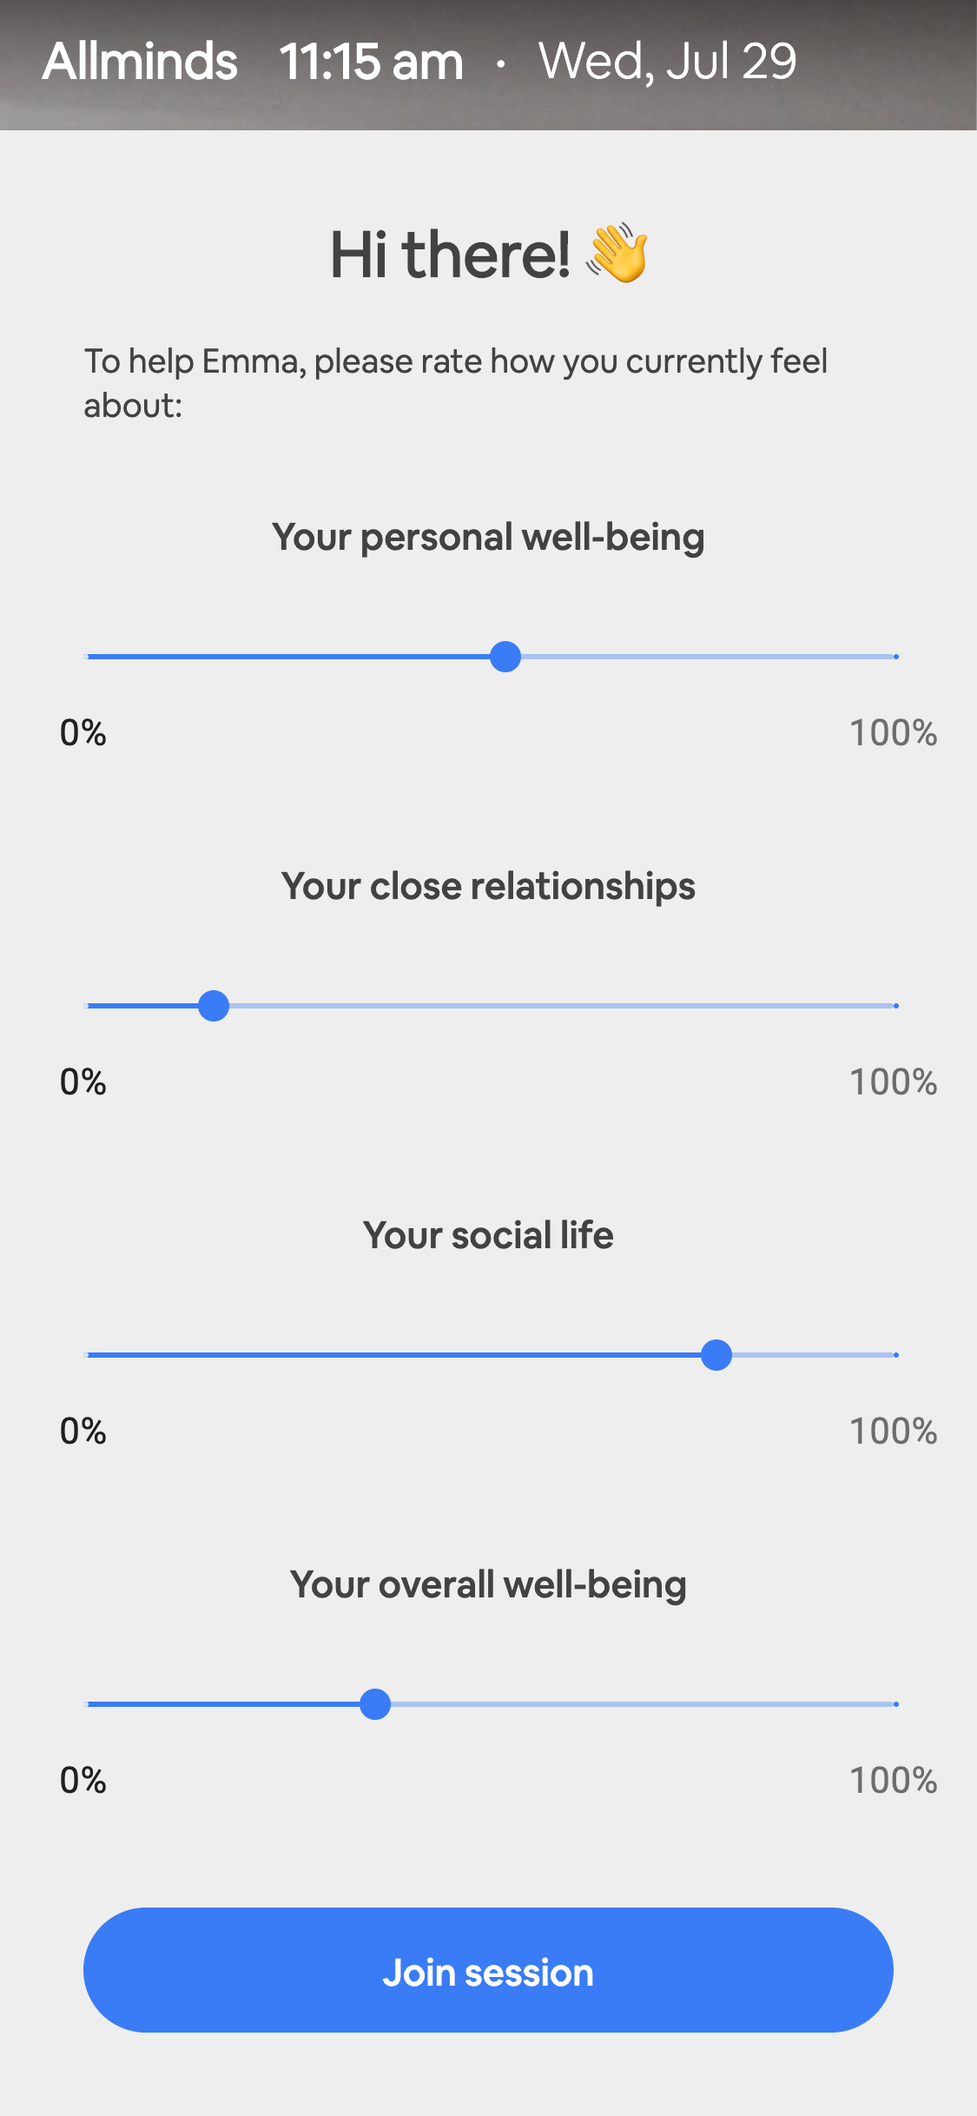
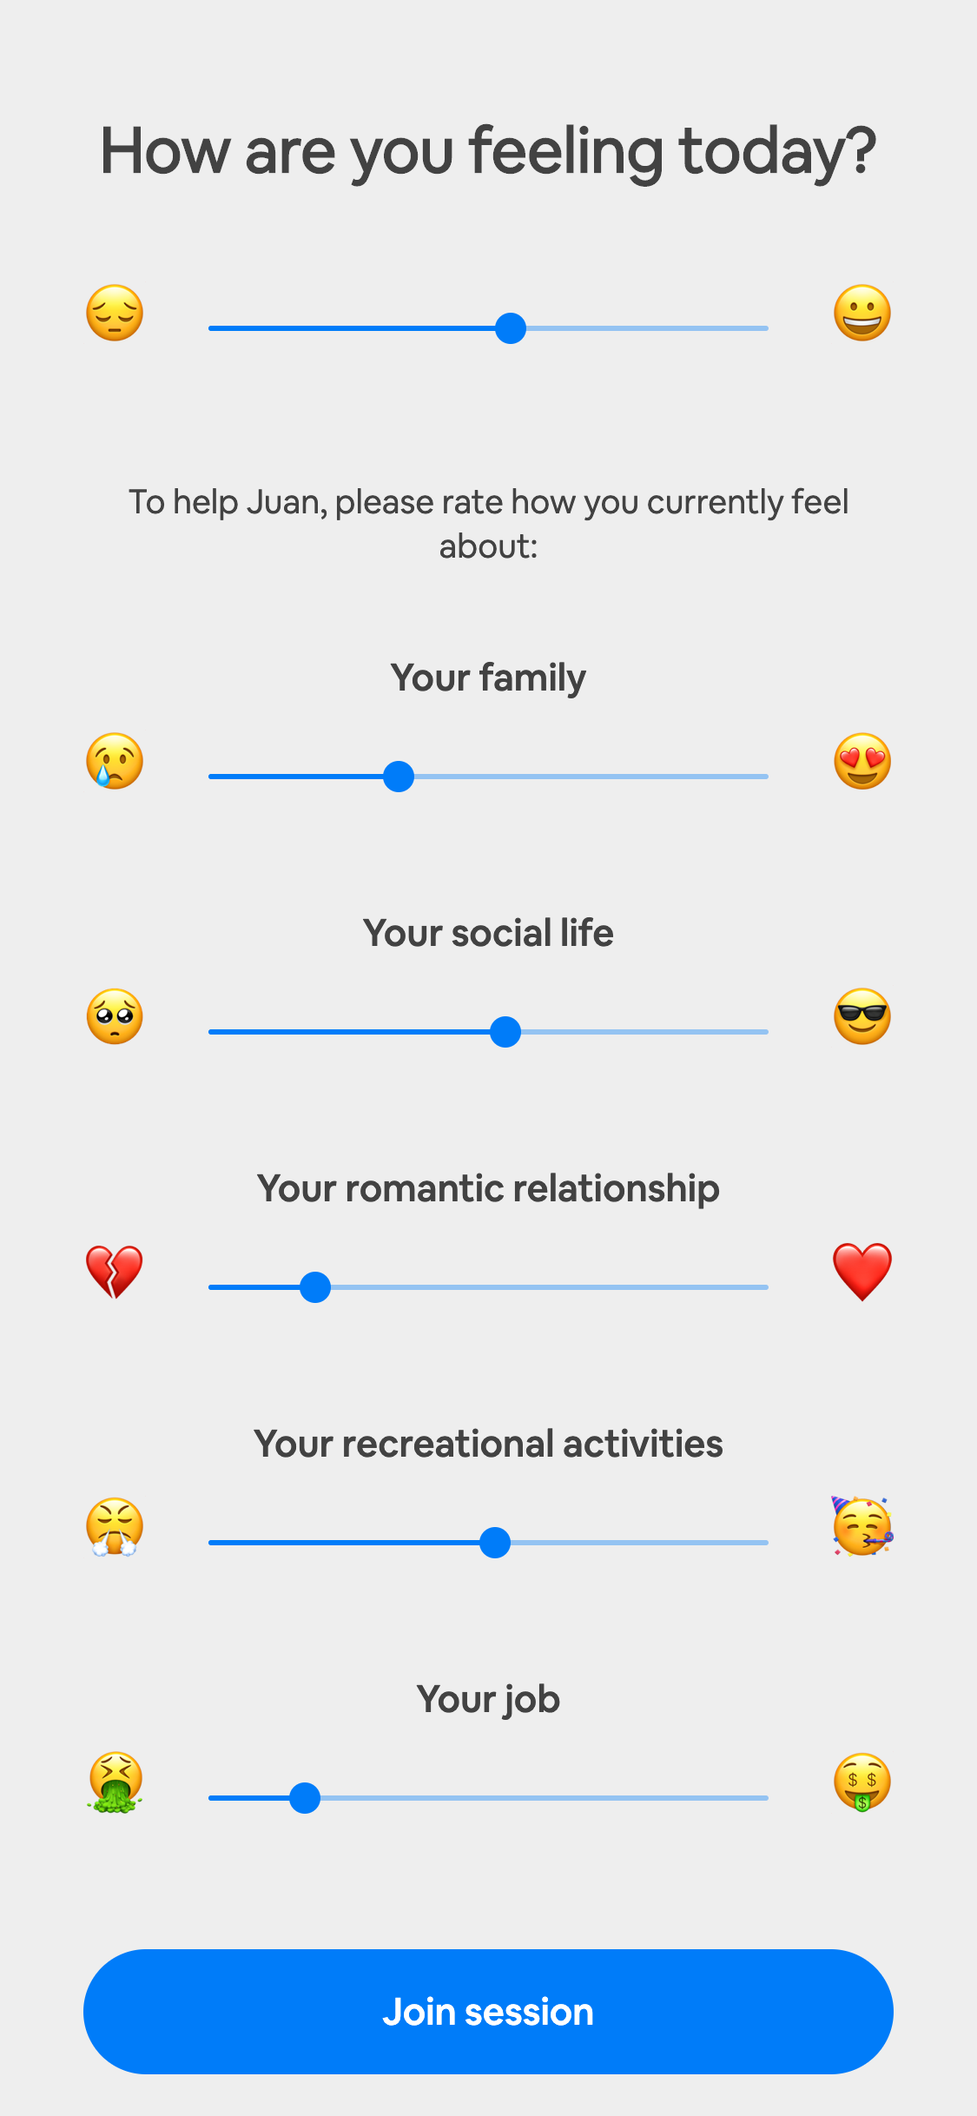
Removed all mentions of old surveys

diff --git a/faq.html b/faq.html
@@ -10,11 +10,11 @@
   <meta property="og:url"                content="https://www.getallminds.com/" />
   <meta property="og:type"               content="website" />
   <meta property="og:title"              content="Allminds | The Telehealth Option tailor-made for Therapists" />
-  <meta property="og:description"        content="Simple, HIPAA-compliant video with screen sharing, couples therapy and more." />
+  <meta property="og:description"        content="Upgrade your telehealth sessions with customizable check-in forms, virtual playrooms and more." />
   <meta property="og:image"              content="https://www.getallminds.com/assets/img/allminds_ui/social_preview.png" />
   <meta name="twitter:card" content="summary_large_image">
   <meta name="twitter:title" content="Allminds | The Telehealth Option tailor-made for Therapists">
-  <meta name="twitter:description" content="Simple, HIPAA-compliant video with screen sharing, couples therapy and more.">
+  <meta name="twitter:description" content="Upgrade your telehealth sessions with customizable check-in forms, virtual playrooms and more.">
   <meta name="twitter:image" content="https://www.getallminds.com/assets/img/allminds_ui/social_preview.png">
 
   <!-- Favicon -->
@@ -206,7 +206,7 @@
                 <div id="basicsCollapseOne" class="collapse" aria-labelledby="basicsHeadingOne" data-parent="#basicsAccordion">
                   <div class="card-body px-0">
                     <p>Allminds is a telehealth platform specifically designed for therapists.</p>
-                    <p>Key features include HIPAA compliant-video through browser (no download required), integrated client surveys to track well-being and session ratings, and a dashboard to keep actionable data at your fingertips.</p>
+                    <p>Key features include HIPAA compliant-video (no download required), screensharing, group calls, virtual playrooms for younger clients, and customizable check-in/check-out forms.</p>
                   </div>
                 </div>
               </div>
@@ -412,7 +412,7 @@
                   <div class="card-body px-0">
                     <p>Allminds works on the latest versions of Google Chrome, Safari, Mozilla Firefox and Edge on desktops/laptops.</p>
                     <p>For <strong>Android</strong>, it can be run using Google Chrome and Mozilla Firefox.</p>
-                    <p><strong>iOS devices</strong> can use Safari, Google Chrome and Mozilla Firefox.</p>
+                    <p>On <strong>iOS devices</strong> you should use Safari exclusively.</p>
                     <p>Note: You must ensure you and your clients are using the most up-to-date browser version to have the best experience. Please do not use Allminds on older or unsupported browser versions (like Internet Explorer) and be aware that incompatibilities can cause technical and video issues.</p>
                   </div>
                 </div>
@@ -431,7 +431,7 @@
               <div class="card shadow-none mb-3">
                 <div class="card-header card-collapse" id="surveyHeadingOne">
                   <a class="btn btn-link btn-block d-flex justify-content-between card-btn collapsed bg-white px-0" href="javascript:;" role="button" data-toggle="collapse" data-target="#surveyCollapseOne" aria-expanded="false" aria-controls="surveyCollapseOne">
-                    How do client surveys work?
+                    How do the check-in and check-out forms work?
 
                     <span class="card-btn-toggle">
                       <span class="card-btn-toggle-default">&plus;</span>
@@ -441,10 +441,11 @@
                 </div>
                 <div id="surveyCollapseOne" class="collapse" aria-labelledby="surveyHeadingOne" data-parent="#featuresAccordion">
                   <div class="card-body px-0">
-                    <p>To help you take  evidence-based decisions, we’ve designed an intuitive experience for clients to complete two ultra-brief surveys during each appointment.</p>
-                    <p>Immediately upon clicking on the video link, clients are asked to visually rate their personal well-being, their close relationships, their social life and their overall well-being using a digital slider. Once they submit their answers, you will immediately be shown their ratings and you will be able to let your client into the video call. </p>
-                    <p>After each session, clients will be asked to rate how they feel about their relationship with you,  the topics of discussion, the approach you used, and their overall liking of the session.</p>
-                    <p>We compute your clients’ scores in the background, and use that to create beautiful charts and tables that you can access through the dashboard to track how your clients are doing. </p>
+                    <p>For each client, you can customize a check-in form to track how they're feeling across different functional domains:</p>
+                    <p>Family functioning, Living situation, Social functioning, Relationship functioning, Recreational, Job functioning, Legal, Medical/Physical, Sexual development, Sleep, School and Optimism.</p>
+                    <p>Your clients will be shown the check-in form before joining the call, and you will see their scores right before starting the session. </p>
+                    <p>After each session, your clients are asked to rate if they found the session helpful, if they talked about what they wanted, and if they believe your practice is the right fit for them.</p>
+                    <p>You can keep track of your client's functional progress and session feedback through your dashboard at anytime. </p>
                   </div>
                 </div>
               </div>
@@ -453,7 +454,7 @@
               <div class="card shadow-none mb-3">
                 <div class="card-header card-collapse" id="surveyLengthHeadingOne">
                   <a class="btn btn-link btn-block d-flex justify-content-between card-btn collapsed bg-white px-0" href="javascript:;" role="button" data-toggle="collapse" data-target="#surveyLengthCollapseOne" aria-expanded="false" aria-controls="surveyLengthCollapseOne">
-                    How long does it take clients to complete the surveys?
+                    How long does it take clients to complete the check-in and check-out forms?
 
                     <span class="card-btn-toggle">
                       <span class="card-btn-toggle-default">&plus;</span>
@@ -463,7 +464,7 @@
                 </div>
                 <div id="surveyLengthCollapseOne" class="collapse" aria-labelledby="surveyLengthHeadingOne" data-parent="#featuresAccordion">
                   <div class="card-body px-0">
-                    <p>Each survey is designed to be completed in less than five seconds and be as effortless as possible.</p>
+                    <p>Each form is designed to be completed in less than five seconds and be as effortless as possible.</p>
                   </div>
                 </div>
               </div>
@@ -483,7 +484,7 @@
                 </div>
                 <div id="privacyCollapseOne" class="collapse" aria-labelledby="privacyHeadingOne" data-parent="#featuresAccordion">
                   <div class="card-body px-0">
-                    <p>We currently support group sessions with up to three participants, including yourself. This means you can see up to two other people at the same time. In the future, we will look to expand the number of participants allowed in group sessions even further.</p>
+                    <p>We currently support group sessions with up to four participants, including yourself. This means you can see up to three other people at the same time. In the future, we will look to expand the number of participants allowed in group sessions even further.</p>
                   </div>
                 </div>
               </div>

diff --git a/index.html b/index.html
@@ -10,11 +10,11 @@
   <meta property="og:url"                content="https://www.getallminds.com/" />
   <meta property="og:type"               content="website" />
   <meta property="og:title"              content="Allminds | The Telehealth Option tailor-made for Therapists" />
-  <meta property="og:description"        content="Simple, HIPAA-compliant video with screen sharing, couples therapy and more." />
+  <meta property="og:description"        content="Upgrade your telehealth sessions with customizable check-in forms, virtual playrooms and more." />
   <meta property="og:image"              content="https://www.getallminds.com/assets/img/allminds_ui/social_preview.png" />
   <meta name="twitter:card" content="summary_large_image">
   <meta name="twitter:title" content="Allminds | The Telehealth Option tailor-made for Therapists">
-  <meta name="twitter:description" content="Simple, HIPAA-compliant video with screen sharing, couples therapy and more.">
+  <meta name="twitter:description" content="Upgrade your telehealth sessions with customizable check-in forms, virtual playrooms and more.">
   <meta name="twitter:image" content="https://www.getallminds.com/assets/img/allminds_ui/social_preview.png">
 
   <!-- Favicon -->
@@ -181,7 +181,7 @@
             <div class="col-12 col-lg-5 col-xl-6">
               <div class="mb-5 text-center text-md-left">
                 <h1 class="display-4">The Telehealth option tailor-made for therapists</h1>
-                <p class="lead">Simple, HIPAA-compliant video with screen sharing, couples therapy and more.</p>
+                <p class="lead">Upgrade your telehealth sessions with customizable check-in forms, virtual playrooms and more.</p>
               </div>
 
               <!-- Begin Mailchimp Signup Form -->
@@ -236,7 +236,8 @@
             <!-- Device Mockup -->
             <div class="device device-horizontal-ipad mr-4 mb-4" style="width: 23rem;" data-aos="fade-up" data-aos-delay="150" data-aos-offset="-300">
               <img class="device-horizontal-ipad-frame" src="./assets/svg/components/ipad-horizontal.svg" alt="Image Description">
-              <img class="device-horizontal-ipad-screen" src="./assets/img/allminds_ui/video_call_three_way.png" alt="Image Description">
+              <!-- <img class="device-horizontal-ipad-screen" src="./assets/img/allminds_ui/video_call_three_way.png" alt="Image Description"> -->
+              <img class="device-horizontal-ipad-screen" src="./assets/img/allminds_ui/allminds_virtual_room_call.png" alt="Image Description">
             </div>
             <!-- End Device Mockup -->
 
@@ -248,16 +249,16 @@
             <!-- End Device Mockup -->
 
             <!-- Device Mockup -->
-            <div class="device device-iphone-x align-self-start" style="width: 7rem;" data-aos="fade-up" data-aos-delay="250" data-aos-offset="-300">
+            <div class="device device-iphone-x align-self-start mr-4" style="width: 7rem;" data-aos="fade-up" data-aos-delay="250" data-aos-offset="-300">
               <img class="device-iphone-x-frame" src="./assets/svg/components/iphone-x.svg" alt="Image Description">
               <img class="device-iphone-x-screen" src="./assets/img/allminds_ui/wellbeing_survey.png" alt="Image Description">
             </div>
             <!-- End Device Mockup -->
 
             <!-- Device Mockup -->
-            <div class="device mr-4" style="width: 35rem;" data-aos="fade-up" data-aos-delay="200" data-aos-offset="-300">
-              <img class="img-fluid" src="./assets/svg/components/macbook.svg" alt="Image Description">
-              <img class="device-macbook-screen" src="./assets/img/allminds_ui/client_metrics.png" alt="Image Description">
+            <div class="device device-horizontal-ipad mr-4" style="width: 23rem;" data-aos="fade-up" data-aos-delay="200" data-aos-offset="-300">
+              <img class="device-horizontal-ipad-frame" src="./assets/svg/components/ipad-horizontal.svg" alt="Image Description">
+              <img class="device-horizontal-ipad-screen" src="./assets/img/allminds_ui/video_call_three_way.png" alt="Image Description">
             </div>
             <!-- End Device Mockup -->
 
@@ -365,25 +366,26 @@
                 <div class="media text-body mb-3">
                   <i class="fas fa-check-circle text-success mt-1 mr-2"></i>
                   <div class="media-body">
-                    BAA included
+                    Screen sharing for therapist and clients
                   </div>
                 </div>
                 <div class="media text-body mb-3">
                   <i class="fas fa-check-circle text-success mt-1 mr-2"></i>
                   <div class="media-body">
-                    Screen sharing
+                    Group calls with up to four participants
                   </div>
                 </div>
                 <div class="media text-body mb-3">
-                  <i class="fas fa-check-circle text-success mt-1 mr-2"></i>
-                  <div class="media-body">
-                    Couples therapy
-                  </div>
-                </div>
-                <div class="media text-body mb-5">
                   <i class="fas fa-check-circle text-success mt-1 mr-2"></i>
                   <div class="media-body">
                     No logins, downloads or hassles
+                  </div>
+                </div>
+              </div>
+                <div class="media text-body mb-5">
+                  <i class="fas fa-check-circle text-success mt-1 mr-2"></i>
+                  <div class="media-body">
+                    BAA included
                   </div>
                 </div>
               </div>
@@ -468,8 +470,8 @@
                 <div class="step-content-wrapper">
                   <span class="step-icon step-icon-xs step-icon-soft-primary">1</span>
                   <div class="step-content">
-                    <h3 class="h4"> Learn how your client is feeling before each appointment</h3>
-                    <p>Your client will take five seconds to rate their well-being across different categories of your choice.</p>
+                    <h3 class="h4"> Choose which functional domains to track for each client</h3>
+                    <p>Your client will take five seconds to rate each domain before every session.</p>
                   </div>
                  </div>
               </li>
@@ -478,7 +480,7 @@
                   <span class="step-icon step-icon-xs step-icon-soft-primary">2</span>
                   <div class="step-content">
                     <h4>Get direct client feedback after each session</h4>
-                    <p class="mb-0">Your client will get to share if they found the session helpful, if they believe you're a good fit, and if they talked about what they wanted.</p>
+                    <p class="mb-0">Your client will get to share if they found the session helpful, if they believe your style is a good fit, and if they talked about what they wanted.</p>
                   </div>
                 </div>
               </li>
@@ -619,7 +621,7 @@
               <figure class="max-w-10rem mx-auto mb-3">
                 <img class="img-fluid" src="./assets/svg/icons/icon-23.svg" alt="SVG">
               </figure>
-              <p>Enjoy Allminds for Free</p>
+              <p>Enjoy using Allminds</p>
             </div>
             <!-- End Icon Block -->
           </div>

diff --git a/baa.html b/baa.html
@@ -10,11 +10,11 @@
   <meta property="og:url"                content="https://www.getallminds.com/" />
   <meta property="og:type"               content="website" />
   <meta property="og:title"              content="Allminds | The Telehealth Option tailor-made for Therapists" />
-  <meta property="og:description"        content="Simple, HIPAA-compliant video with screen sharing, couples therapy and more." />
+  <meta property="og:description"        content="Upgrade your telehealth sessions with customizable check-in forms, virtual playrooms and more." />
   <meta property="og:image"              content="https://www.getallminds.com/assets/img/allminds_ui/social_preview.png" />
   <meta name="twitter:card" content="summary_large_image">
   <meta name="twitter:title" content="Allminds | The Telehealth Option tailor-made for Therapists">
-  <meta name="twitter:description" content="Simple, HIPAA-compliant video with screen sharing, couples therapy and more.">
+  <meta name="twitter:description" content="Upgrade your telehealth sessions with customizable check-in forms, virtual playrooms and more.">
   <meta name="twitter:image" content="https://www.getallminds.com/assets/img/allminds_ui/social_preview.png">
 
   <!-- Favicon -->

diff --git a/contact.html b/contact.html
@@ -10,11 +10,11 @@
   <meta property="og:url"                content="https://www.getallminds.com/" />
   <meta property="og:type"               content="website" />
   <meta property="og:title"              content="Allminds | The Telehealth Option tailor-made for Therapists" />
-  <meta property="og:description"        content="Simple, HIPAA-compliant video with screen sharing, couples therapy and more." />
+  <meta property="og:description"        content="Upgrade your telehealth sessions with customizable check-in forms, virtual playrooms and more." />
   <meta property="og:image"              content="https://www.getallminds.com/assets/img/allminds_ui/social_preview.png" />
   <meta name="twitter:card" content="summary_large_image">
   <meta name="twitter:title" content="Allminds | The Telehealth Option tailor-made for Therapists">
-  <meta name="twitter:description" content="Simple, HIPAA-compliant video with screen sharing, couples therapy and more.">
+  <meta name="twitter:description" content="Upgrade your telehealth sessions with customizable check-in forms, virtual playrooms and more.">
   <meta name="twitter:image" content="https://www.getallminds.com/assets/img/allminds_ui/social_preview.png">
 
   <!-- Favicon -->

diff --git a/privacy.html b/privacy.html
@@ -10,11 +10,11 @@
   <meta property="og:url"                content="https://www.getallminds.com/" />
   <meta property="og:type"               content="website" />
   <meta property="og:title"              content="Allminds | The Telehealth Option tailor-made for Therapists" />
-  <meta property="og:description"        content="Simple, HIPAA-compliant video with screen sharing, couples therapy and more." />
+  <meta property="og:description"        content="Upgrade your telehealth sessions with customizable check-in forms, virtual playrooms and more." />
   <meta property="og:image"              content="https://www.getallminds.com/assets/img/allminds_ui/social_preview.png" />
   <meta name="twitter:card" content="summary_large_image">
   <meta name="twitter:title" content="Allminds | The Telehealth Option tailor-made for Therapists">
-  <meta name="twitter:description" content="Simple, HIPAA-compliant video with screen sharing, couples therapy and more.">
+  <meta name="twitter:description" content="Upgrade your telehealth sessions with customizable check-in forms, virtual playrooms and more.">
   <meta name="twitter:image" content="https://www.getallminds.com/assets/img/allminds_ui/social_preview.png">
 
   <!-- Favicon -->

diff --git a/terms.html b/terms.html
@@ -10,11 +10,11 @@
   <meta property="og:url"                content="https://www.getallminds.com/" />
   <meta property="og:type"               content="website" />
   <meta property="og:title"              content="Allminds | The Telehealth Option tailor-made for Therapists" />
-  <meta property="og:description"        content="Simple, HIPAA-compliant video with screen sharing, couples therapy and more." />
+  <meta property="og:description"        content="Upgrade your telehealth sessions with customizable check-in forms, virtual playrooms and more." />
   <meta property="og:image"              content="https://www.getallminds.com/assets/img/allminds_ui/social_preview.png" />
   <meta name="twitter:card" content="summary_large_image">
   <meta name="twitter:title" content="Allminds | The Telehealth Option tailor-made for Therapists">
-  <meta name="twitter:description" content="Simple, HIPAA-compliant video with screen sharing, couples therapy and more.">
+  <meta name="twitter:description" content="Upgrade your telehealth sessions with customizable check-in forms, virtual playrooms and more.">
   <meta name="twitter:image" content="https://www.getallminds.com/assets/img/allminds_ui/social_preview.png">
 
   <!-- Favicon -->

diff --git a/thankyou.html b/thankyou.html
@@ -10,11 +10,11 @@
   <meta property="og:url"                content="https://www.getallminds.com/" />
   <meta property="og:type"               content="website" />
   <meta property="og:title"              content="Allminds | The Telehealth Option tailor-made for Therapists" />
-  <meta property="og:description"        content="Simple, HIPAA-compliant video with screen sharing, couples therapy and more." />
+  <meta property="og:description"        content="Upgrade your telehealth sessions with customizable check-in forms, virtual playrooms and more." />
   <meta property="og:image"              content="https://www.getallminds.com/assets/img/allminds_ui/social_preview.png" />
   <meta name="twitter:card" content="summary_large_image">
   <meta name="twitter:title" content="Allminds | The Telehealth Option tailor-made for Therapists">
-  <meta name="twitter:description" content="Simple, HIPAA-compliant video with screen sharing, couples therapy and more.">
+  <meta name="twitter:description" content="Upgrade your telehealth sessions with customizable check-in forms, virtual playrooms and more.">
   <meta name="twitter:image" content="https://www.getallminds.com/assets/img/allminds_ui/social_preview.png">
 
   <!-- Favicon -->
